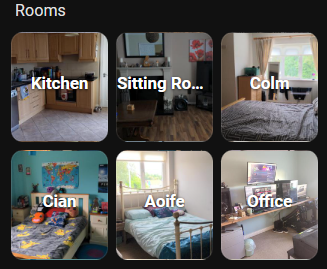
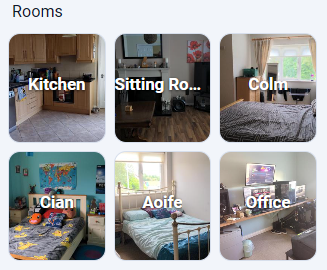
How the House Works: restyle to the Oaks palette, new screenshots, colour key
The guide now wears the same light palette as the Oaks theme, so HA and the guide
read as one system: #f2f5fa background, white cards, #0f1830 ink, the cyan accent.
Every value is from the palette -- no new colours.

Six screenshots retaken in light mode (alarm, heating, house_mode, rooms, ma, guest).
Each <img> carries its own ?v= : the filenames did not change, and /local/ is served
with a 31-day cache header, so without a per-image bust the browser keeps the old
picture no matter what the page version says.

Text follows the new colour language:
- Guest Mode's toggle turns purple now, not green
- the alarm page gains a colour key: purple = armed, grey = disarmed, red = going
  off right now
- the heating page explains that both buttons stay grey until a boost is actually
  running, then Boost goes orange and Cancel goes red

Theme: the toggle SLIDER needs five separate variables, not one -- switch-checked-color
alone leaves the track falling back to the accent (it rendered teal). Guest Mode had
also been forced green by a card_mod override on the dashboard, which beats any theme;
that override is removed so the row follows the theme.

diff --git a/www/how-the-house-works.html b/www/how-the-house-works.html
@@ -5,7 +5,7 @@
 <meta name="viewport" content="width=device-width, initial-scale=1">
 <title>How the House Works</title>
 <style>
-  :root { --accent:#ff8100; --ink:#222; --soft:#666; --bg:#faf8f5; --card:#fff; }
+  :root { --accent:#1a8fa8; --ink:#0f1830; --soft:#46536e; --bg:#f2f5fa; --card:#ffffff; }
   * { box-sizing: border-box; }
   html, body { height:100%; margin:0; }
   body { font-family:-apple-system,"Segoe UI",Roboto,sans-serif; color:var(--ink);
@@ -83,7 +83,7 @@
   </table>
   <div class="card tip"><b>Coming home from Away:</b> the moment one of us arrives, the house
   switches to Home and disarms itself — you'll hear a welcome-home announcement. Nothing to do.</div>
-  <img class="shot" src="house_mode.png" alt="The House Mode card">
+  <img class="shot" src="house_mode.png?v=20260713" alt="The House Mode card">
   <p class="cap">The House Mode card on the Home tab, showing the current mode.</p>
   <p><b>Storm</b> and <b>Maintenance</b> on the card are automatic — they light up by themselves (Storm during a weather warning, Maintenance while Colm is working on things) and need nothing from you.</p>
   <div class="nav"><a class="ix" href="#index">&#9776; Index</a><a class="nx" href="#p2">Next: Rooms &rsaquo;</a></div>
@@ -97,7 +97,7 @@
         lights, temperature and anything else that lives in the room.</li>
     <li><b>Tap the picture again</b> on the room&rsquo;s page to come straight back to Home.</li>
   </ul>
-  <img class="shot" src="rooms.png" alt="The room pictures on the Home tab" style="max-width:340px">
+  <img class="shot" src="rooms.png?v=20260713" alt="The room pictures on the Home tab" style="max-width:340px">
   <p class="cap">The room pictures on the Home tab &mdash; tap one to open that room.</p>
   <div class="nav"><a class="ix" href="#index">&#9776; Index</a><a class="nx" href="#p3">Next: Guests &rsaquo;</a></div>
 </div>
@@ -111,8 +111,8 @@
     <li>Night-time arming still happens, so the house is still secure overnight.</li>
   </ul>
   <p>Just remember to turn it off when they leave.</p>
-  <img class="shot" src="guest.png" alt="The House Mode card with Guest switched on">
-  <p class="cap">Guest Mode switched on — the toggle turns green.</p>
+  <img class="shot" src="guest.png?v=20260713" alt="The House Mode card with Guest switched on">
+  <p class="cap">Guest Mode switched on — the toggle turns purple.</p>
   <div class="nav"><a class="ix" href="#index">&#9776; Index</a><a class="nx" href="#p4">Next: Heating &rsaquo;</a></div>
 </div>
 
@@ -130,8 +130,11 @@
   <div class="card">On the <b>Home tab</b>, the heating card has a <b>Boost temperature</b> slider and
   a <b>Boost 2 h</b> button — pick a temperature, tap Boost, and it holds for two hours then returns
   to the schedule. <b>Cancel</b> ends it early. The hallway dial works too: <b>up</b> = a two-hour
-  boost, <b>down</b> = cancel. <i>No need for the Netatmo app — don't use it.</i></div>
-  <img class="shot" src="heating.png" alt="The heating card">
+  boost, <b>down</b> = cancel. <i>No need for the Netatmo app — don't use it.</i><br><br>
+  Both buttons stay grey until a boost is actually running — then <b style="color:#ff8100">Boost</b>
+  turns orange and <b style="color:#ff5a5a">Cancel</b> turns red, so you can see at a glance
+  whether a boost is on.</div>
+  <img class="shot" src="heating.png?v=20260713" alt="The heating card">
   <p class="cap">The ring shows the current temperature (dot = target) and glows
   <span style="color:var(--accent)"><b>orange</b></span> while the boiler is heating.</p>
   <h3>Wondering why it just changed?</h3>
@@ -181,9 +184,11 @@
     <li><b>If it triggers:</b> every light strobes, both phones alert, and it announces on the
         speakers. Disarm from the app or the front-door tag; the lights return to normal.</li>
   </ul>
-  <img class="shot" src="alarm.png" alt="The alarm panels">
+  <img class="shot" src="alarm.png?v=20260713" alt="The alarm panels">
   <p class="cap">The House and Shed panels — normally you never need them (it follows House Mode),
   but they're there for manual arming or disarming.</p>
+  <div class="card"><b>Reading the colours:</b> <b style="color:#a880ff">purple</b> = armed, on guard ·
+  <b style="color:#7d8aa6">grey</b> = disarmed · <b style="color:#ff5a5a">red</b> = going off right now.</div>
   <div class="nav"><a class="ix" href="#index">&#9776; Index</a><a class="nx" href="#p7">Next: Cameras &rsaquo;</a></div>
 </div>
 
@@ -253,7 +258,7 @@
     <tr><td><b>3</b></td><td>Search for a song, artist or playlist and press <b>play</b></td></tr>
     <tr><td><b>4</b></td><td>Set the volume &mdash; for one speaker, or for the whole group</td></tr>
   </table>
-  <img class="shot" src="/local/ma.png" alt="Music Assistant — the Players row along the top is where you pick where the music plays">
+  <img class="shot" src="/local/ma.png?v=20260713" alt="Music Assistant — the Players row along the top is where you pick where the music plays">
   <p class="cap">The <b>Players</b> row along the top is where you choose the speaker &mdash; pick one <i>before</i> you press play</p>
   <p><b>Home Music Group</b> plays the two hi-fi speakers and the computer together, in sync &mdash;
   ideal for music right through the house.</p>
